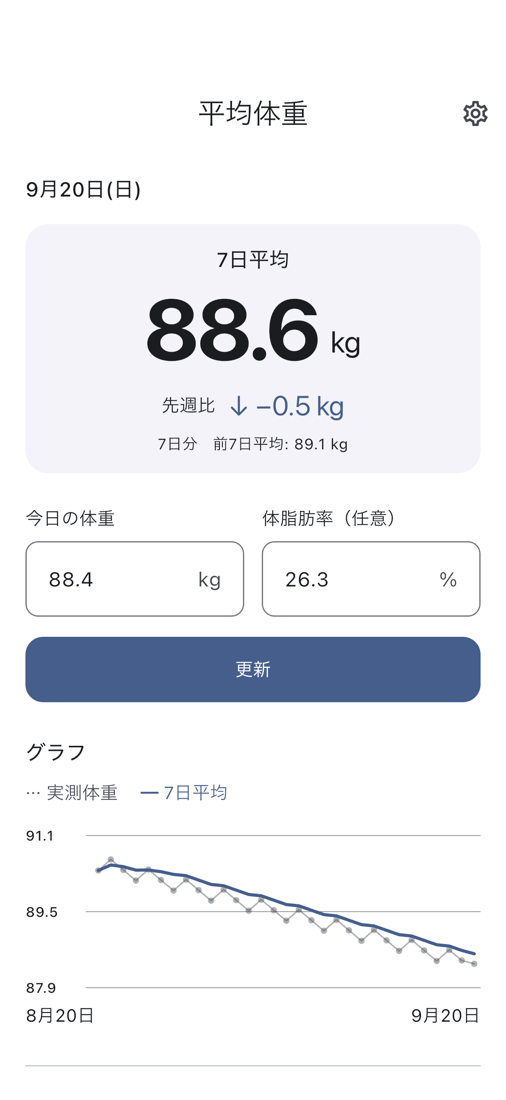
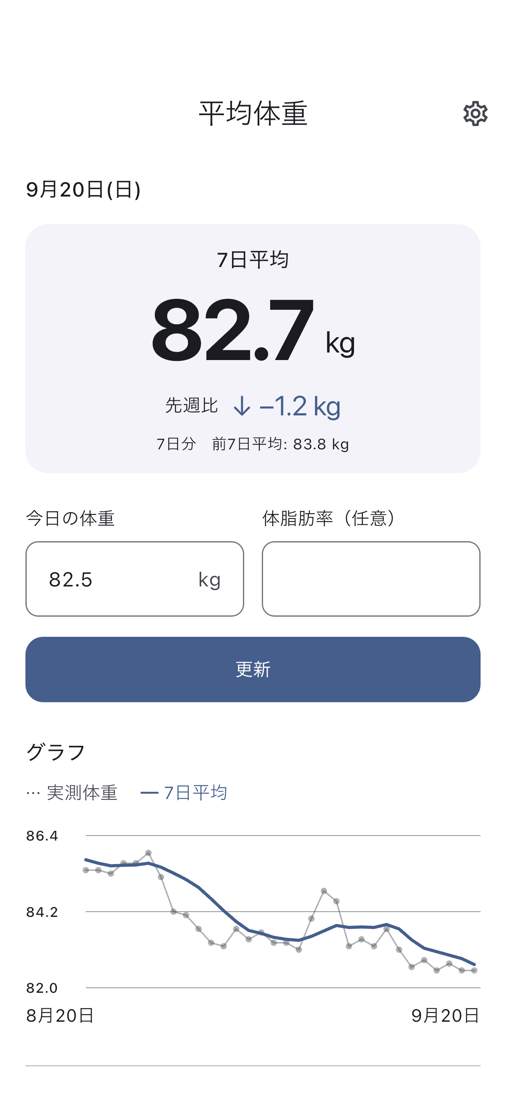
Publish approved recorded-weight website previews

diff --git a/apps/average-weight/index.html b/apps/average-weight/index.html
@@ -11,12 +11,12 @@
 <nav class="topnav" aria-label="Navigation"><a data-local href="./support/"><span data-lang="ja">サポート</span><span data-lang="en" hidden>Support</span></a>
 <div class="languages" aria-label="Language"><button data-select="ja" lang="ja" aria-pressed="true">日本語</button><button data-select="en" lang="en" aria-pressed="false">EN</button></div></nav></header>
 <main id="main"><div data-lang="ja" lang="ja"><section class="hero wrap"><div class="hero-copy"><p class="overline">7日平均で見る、体重記録</p><h1>今日を記録。<br><span>変化は、平均で。</span></h1><p class="lead">日々の数字だけでは見えにくい変化を、<br class="desktop">7日平均でゆっくり確かめる。<br>入力して、見る。それだけの体重管理アプリです。</p><a class="button" href="#how-ja">使い方を見る <span aria-hidden="true">↓</span></a><p class="availability">iPhone / Android向け · ストア公開準備中</p></div>
-<figure class="app-preview"><img src="assets/home-ja.png" width="506" height="1100" alt="平均体重のホーム画面。7日平均、体重入力、推移グラフを一画面で確認できます。" fetchpriority="high"><figcaption>画面・数値は表示例です（広告省略）。</figcaption></figure></section>
+<figure class="app-preview"><img src="assets/home-ja.png?v=2" width="506" height="1100" alt="平均体重のホーム画面。7日平均、体重入力、推移グラフを一画面で確認できます。" fetchpriority="high"><figcaption>記録をもとにした画面例です（体脂肪率・広告は省略）。</figcaption></figure></section>
 <section class="section wrap" id="how-ja"><div class="section-heading"><p class="overline">使い方</p><h2>毎日することは、<br>ひとつだけ。</h2></div><div class="steps"><article><span class="step">01</span><h3>今日の体重を入力</h3><p>体重を入力して記録。体脂肪率は、測った日だけ追加できます。</p></article><article><span class="step">02</span><h3>7日平均を確認</h3><p>記録した日の体重から自動計算。前の7日間と比べて、変化を確かめます。</p></article><article><span class="step">03</span><h3>ときどき、振り返る</h3><p>グラフで推移を確認。記録を直したいときは、履歴から編集できます。</p></article></div></section>
 <section class="section wrap features"><div class="section-heading"><p class="overline">必要なものだけ</p><h2>続けるために、<br>シンプルに。</h2></div><dl><div><dt>記録と、平均のグラフ</dt><dd>日々の体重と7日平均を重ねて表示。1か月・3か月・全期間で振り返れます。</dd></div><div><dt>自分に合う表示</dt><dd>kg・lb、ライト・ダーク表示に対応。目標体重も設定できます。</dd></div><div><dt>6つの言語</dt><dd>日本語・英語・韓国語・簡体字中国語・スペイン語・フランス語。端末の言語に合わせて表示します。</dd></div><div><dt>バナー広告のみ</dt><dd>ホーム画面の下にバナーを表示。操作を中断する全画面広告や動画広告はありません。</dd></div></dl></section>
 <section class="section wrap privacy-summary"><div><p class="overline">記録は、あなたの端末に</p><h2>アカウントは不要。</h2></div><div><p>体重や体脂肪率は端末内に保存します。当社サーバーへの送信や、健康情報を広告SDKへ渡すことはありません。</p><p class="muted">クラウド同期・バックアップ・データ移行には対応していません。広告配信には通信を使用します。</p><a class="text-link" data-local href="privacy/">プライバシーポリシーを読む →</a></div></section>
 <section class="closing"><div class="wrap closing-inner"><img src="assets/app-icon.png" width="64" height="64" alt="" loading="lazy"><div><h2>平均体重</h2><p>iPhone / Android向け · ストア公開準備中</p></div><a class="text-link" data-local href="support/">使い方・お問い合わせ →</a></div></section></div><div data-lang="en" lang="en" hidden><section class="hero wrap"><div class="hero-copy"><p class="overline">A SIMPLE WEIGHT DIARY</p><h1>Log today.<br><span>See the trend.</span></h1><p class="lead">Look beyond the daily ups and downs.<br>Record your weight and follow your<br class="desktop"> seven-day average. That’s all.</p><a class="button" href="#how-en">See how it works <span aria-hidden="true">↓</span></a><p class="availability">For iPhone &amp; Android · Coming to stores</p></div>
-<figure class="app-preview"><img src="assets/home-en.png" width="506" height="1100" alt="Average Weight home screen with the seven-day average, daily entry and weight chart." fetchpriority="high"><figcaption>Example screen with sample data. Ad omitted.</figcaption></figure></section>
+<figure class="app-preview"><img src="assets/home-en.png?v=2" width="506" height="1100" alt="Average Weight home screen with the seven-day average, daily entry and weight chart." fetchpriority="high"><figcaption>Screen based on recorded weights. Body fat and ad omitted.</figcaption></figure></section>
 <section class="section wrap" id="how-en"><div class="section-heading"><p class="overline">HOW IT WORKS</p><h2>One small entry.<br>Once a day.</h2></div><div class="steps"><article><span class="step">01</span><h3>Log today’s weight</h3><p>Enter your weight and save. Add body fat only when you measure it.</p></article><article><span class="step">02</span><h3>See your average</h3><p>Your seven-day average is calculated from recorded days. Compare it with the previous seven days.</p></article><article><span class="step">03</span><h3>Look back anytime</h3><p>Follow the trend on the chart. Correct or delete past entries in History.</p></article></div></section>
 <section class="section wrap features"><div class="section-heading"><p class="overline">JUST THE ESSENTIALS</p><h2>Easy to use.<br>Easy to keep using.</h2></div><dl><div><dt>Daily values and averages</dt><dd>See both on one chart. Choose one month, three months or your full history.</dd></div><div><dt>Your preferred view</dt><dd>Use kg or lb, follow your device’s light or dark theme and set a target weight.</dd></div><div><dt>Six languages</dt><dd>Japanese, English, Korean, Simplified Chinese, Spanish and French. The app follows your device language.</dd></div><div><dt>Banner ads only</dt><dd>A banner sits below the home screen. No interrupting full-screen or video ads.</dd></div></dl></section>
 <section class="section wrap privacy-summary"><div><p class="overline">YOUR RECORDS, ON YOUR DEVICE</p><h2>No account needed.</h2></div><div><p>Your weight and body fat entries stay on your device. We do not send them to our servers or pass health entries to the advertising SDK.</p><p class="muted">Cloud sync, backup and data transfer are not provided. Advertising uses an internet connection.</p><a class="text-link" data-local href="privacy/">Read our privacy policy →</a></div></section>
